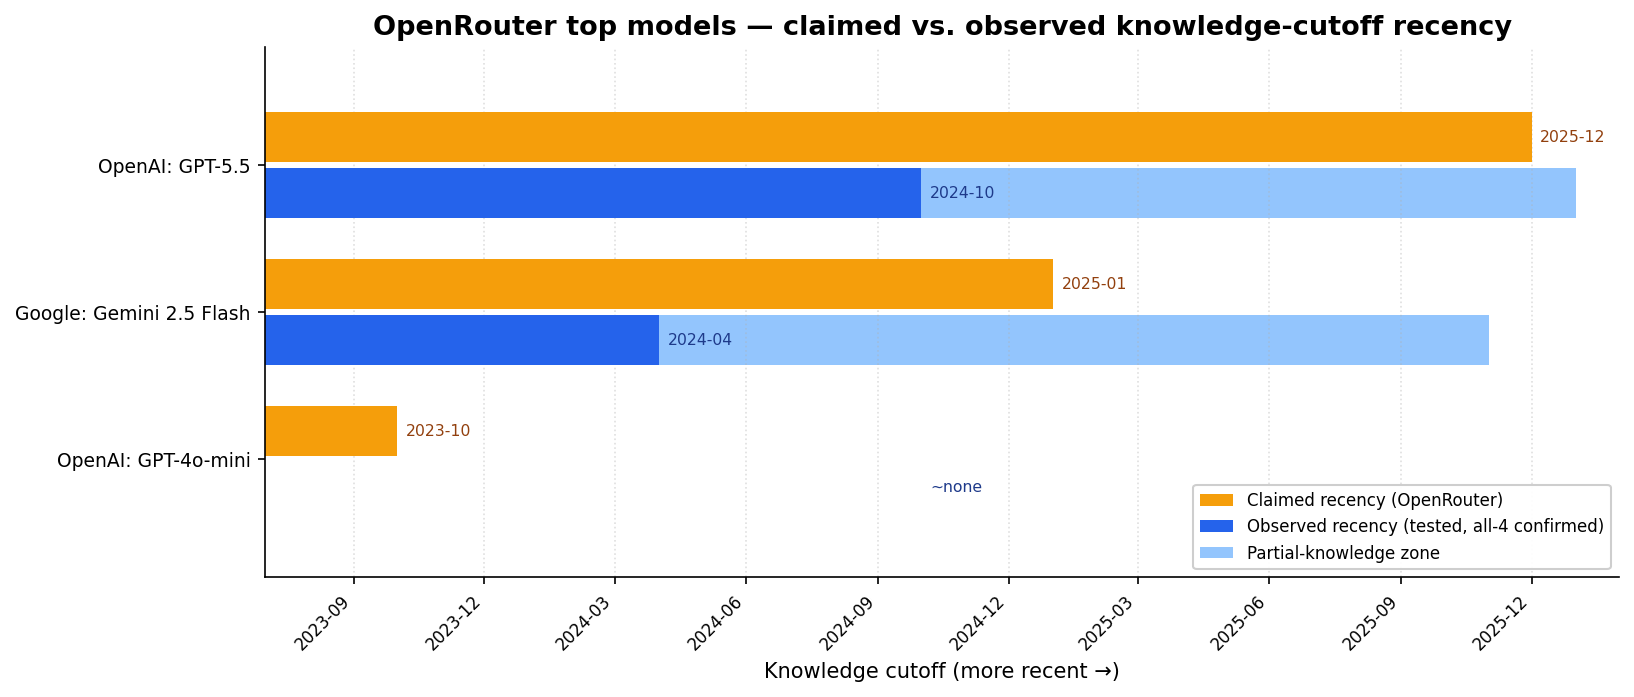
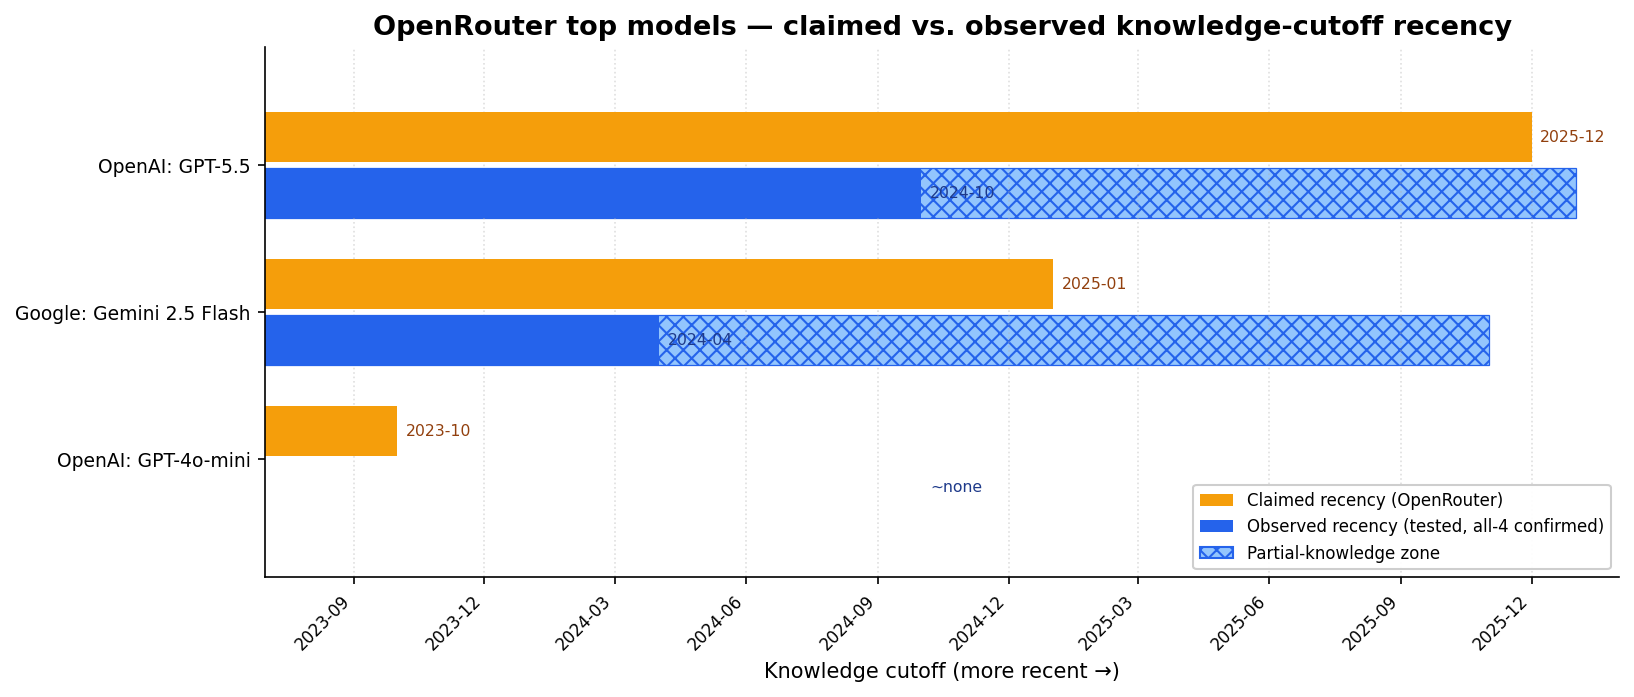
viz: cross-hatch the partial-knowledge zone for clarity

Changed region(s): [[0.3745, 0.4519, 0.9364, 0.5423], [0.5618, 0.241, 0.9676, 0.3314], [0.7179, 0.7834, 0.7491, 0.8135]]

diff --git a/viz.py b/viz.py
@@ -120,7 +120,8 @@ def main() -> int:
         # --- Observed (tested) bar, with partial-knowledge extension behind it ---
         if mp and tested and mp > tested:
             ax.barh(y_obs, mdates.date2num(mp) - base_num, left=base_num,
-                    height=bh, color=C_PARTIAL, zorder=1)
+                    height=bh, facecolor=C_PARTIAL, edgecolor=C_OBS,
+                    linewidth=0.6, hatch="xxx", zorder=1)
         if tested:
             ax.barh(y_obs, mdates.date2num(tested) - base_num, left=base_num,
                     height=bh, color=C_OBS, zorder=2)
@@ -153,7 +154,8 @@ def main() -> int:
     legend = [
         Patch(facecolor=C_CLAIM, label="Claimed recency (OpenRouter)"),
         Patch(facecolor=C_OBS, label="Observed recency (tested, all-4 confirmed)"),
-        Patch(facecolor=C_PARTIAL, label="Partial-knowledge zone"),
+        Patch(facecolor=C_PARTIAL, edgecolor=C_OBS, hatch="xxx",
+              label="Partial-knowledge zone"),
     ]
     ax.legend(handles=legend, loc="lower right", fontsize=8, framealpha=0.95)
 